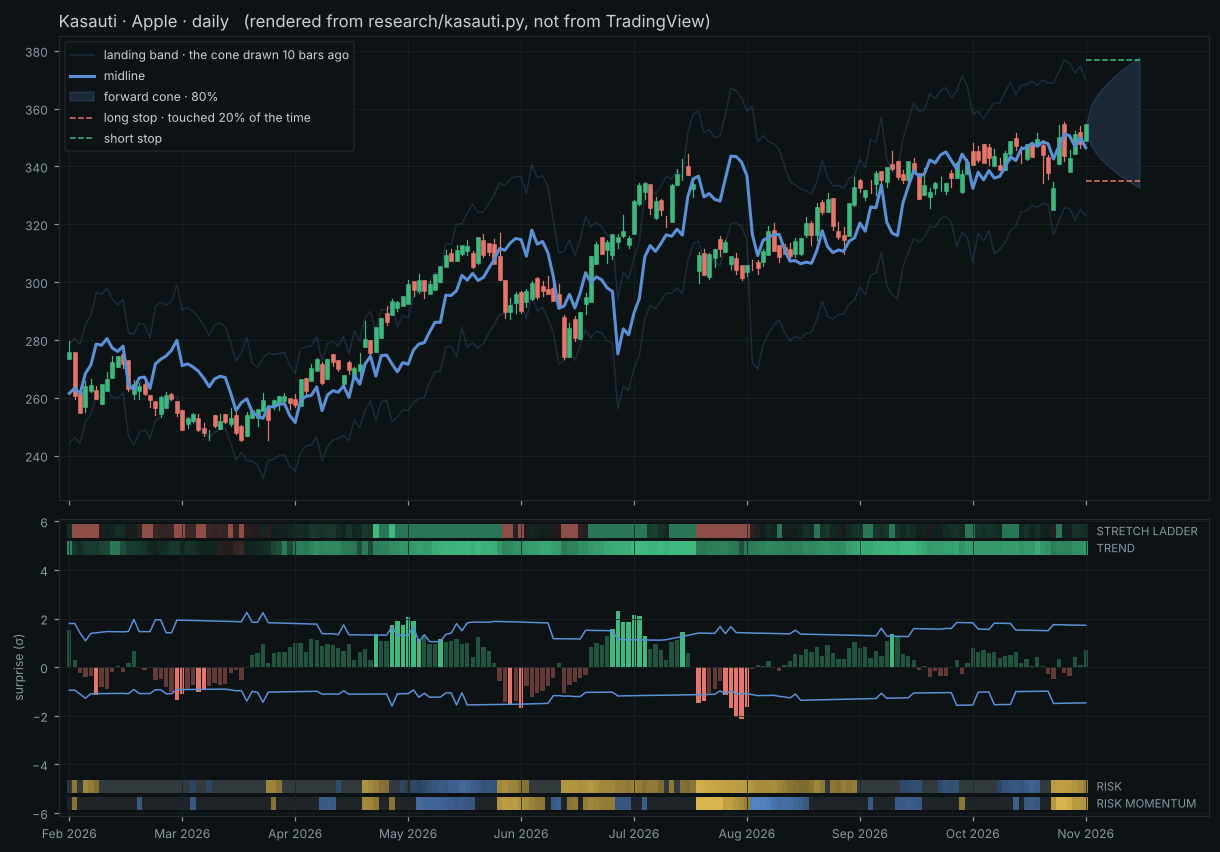
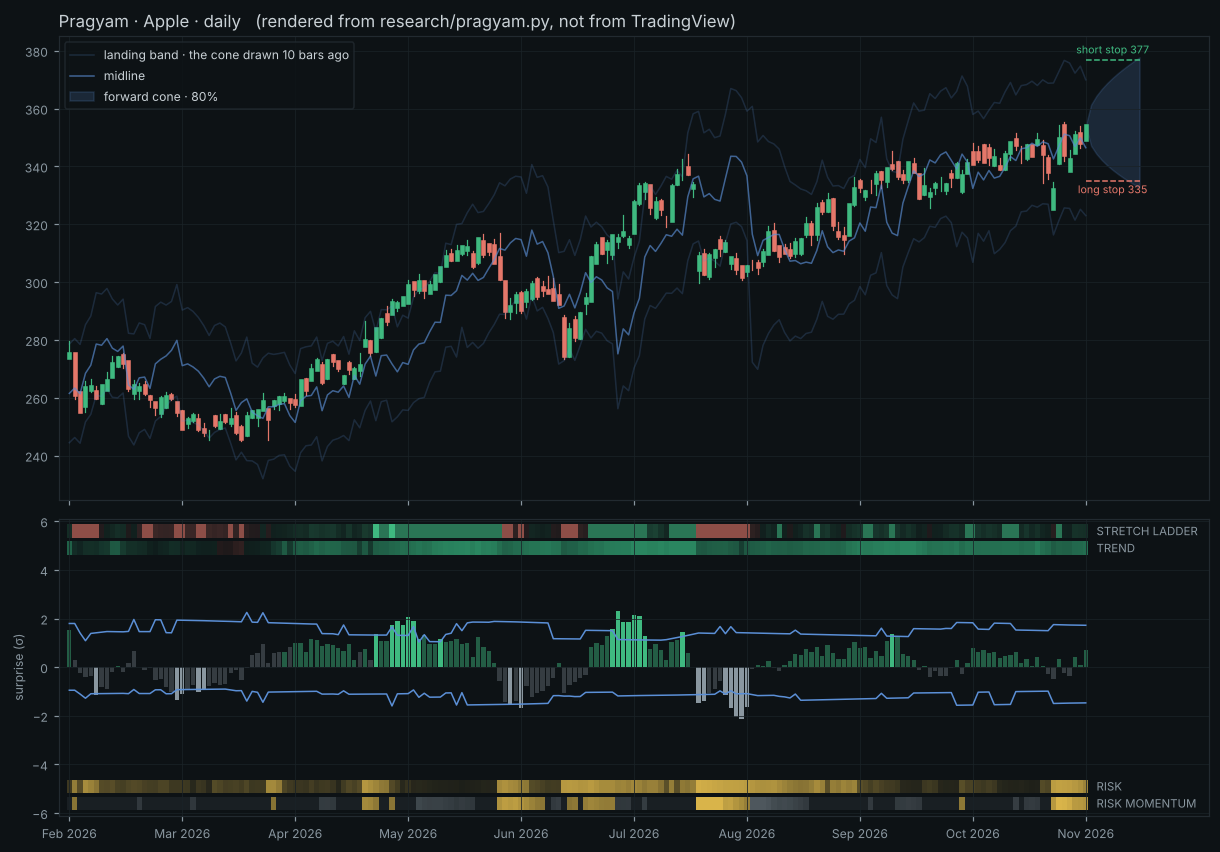
Rename to Pragyam (v2.4) and set the palette by meaning
- Renamed Kasauti to Pragyam: script, title, alerts, reference module.
- Columns are coloured only when the surprise and the trend agree (green
  up in an uptrend, red down in a downtrend); a move against the trend or
  with no trend is grey. Solid when the close left the cone.
- Trend tape uses a deep tone of green/red (long horizon); the stretch
  ladder and columns use the bright tone (short horizon).
- Risk tapes are gold only, faint to solid; falling risk is grey. Blue is
  reserved for the cone: bands, forward cone, landing band, midline.
- Midline is one pixel in the cone's blue, quieter than the profile VWAP.
- Stop labels sit on the stops (short stop above its line, long stop
  below) instead of in the profile's tag column; the cone-edge tags are
  dropped. The tag column is the profile's alone again.

No engine number changed. Not compiled in TradingView.

Claude-Session: https://claude.ai/code/session_016ViFoTstK1H2EPMC9V8JSo

diff --git a/research/preview.py b/research/preview.py
@@ -1,12 +1,12 @@
-"""Draws what kasauti.pine draws, from the reference implementation.  python3 preview.py"""
+"""Draws what pragyam.pine draws, from the reference implementation.  python3 preview.py"""
 from lib import *
-from kasauti import run
+from pragyam import run
 import warnings; warnings.filterwarnings("ignore")
 import matplotlib; matplotlib.use("Agg")
 import matplotlib.pyplot as plt
 from matplotlib.colors import to_rgba
 D = load(); H = 10
-BG, FG, CONE, UP, DN, NE, GOLD = "#0D1215", "#C9D1D6", "#5B8FD6", "#3FB980", "#E4776A", "#8A97A0", "#D9B44A"
+BG, FG, CONE, UP, DN, NE, GOLD, UPD, DND = "#0D1215", "#C9D1D6", "#5B8FD6", "#3FB980", "#E4776A", "#8A97A0", "#D9B44A", "#2A8660", "#B4554B"
 def grad(x, a, b, c, ta, tb):                                              # colour c, transparency ta -> tb as x runs a -> b (Pine's from_gradient)
     f = min(max((x - a) / (b - a), 0), 1); return to_rgba(c, 1 - (ta + (tb - ta) * f) / 100)
 for sym, title in (("_NSEI", "Nifty 50 · daily"), ("AAPL", "Apple · daily")):
@@ -19,23 +19,24 @@ for sym, title in (("_NSEI", "Nifty 50 · daily"), ("AAPL", "Apple · daily")):
         o, h, l, c = d2.open.iloc[i], d2.high.iloc[i], d2.low.iloc[i], d2.close.iloc[i]; col = UP if c >= o else DN
         a.plot([i, i], [l, h], color=col, lw=0.8); a.plot([i, i], [min(o, c), max(o, c)], color=col, lw=3)
     a.plot(x, R.upper.shift(H).iloc[-n:], color=CONE, lw=1, alpha=.2, label="landing band · the cone drawn 10 bars ago"); a.plot(x, R.lower.shift(H).iloc[-n:], color=CONE, lw=1, alpha=.2)
-    a.plot(x, ((R.upper.shift(H) + R.lower.shift(H)) / 2).iloc[-n:], color=CONE, lw=2, label="midline")
+    a.plot(x, ((R.upper.shift(H) + R.lower.shift(H)) / 2).iloc[-n:], color=CONE, lw=1, alpha=.65, label="midline")
     c, sg, qu, qd = d2.close.iloc[-1], R2.sig.iloc[-1], R2.qU.iloc[-1], R2.qD.iloc[-1]; j = np.arange(H + 1)
     a.fill_between(n - 1 + j, c * np.exp(-qd * sg * np.sqrt(j)), c * np.exp(qu * sg * np.sqrt(j)), color=CONE, alpha=.18, label="forward cone · 80%")
-    a.plot([n - 1, n - 1 + H], [R2.stopL.iloc[-1]] * 2, color=DN, ls="--", lw=1, label="long stop · touched 20% of the time"); a.plot([n - 1, n - 1 + H], [R2.stopS.iloc[-1]] * 2, color=UP, ls="--", lw=1, label="short stop")
-    a.legend(loc="upper left", fontsize=8, facecolor=BG, edgecolor="#222a30", labelcolor=FG); a.set_title(f"Kasauti · {title}   (rendered from research/kasauti.py, not from TradingView)", color=FG, fontsize=11, loc="left")
-    a = ax[1]; tr = np.where(R2.u >= 0, UP, DN); out = ((R2.mU == 1) | (R2.mD == 1)).values; uu = R2.u.clip(-4, 4)
-    a.bar(x[~out], uu[~out], color=tr[~out], alpha=.4); a.bar(x[out], uu[out], color=tr[out])
+    a.plot([n - 1, n - 1 + H], [R2.stopL.iloc[-1]] * 2, color=DN, ls="--", lw=1); a.plot([n - 1, n - 1 + H], [R2.stopS.iloc[-1]] * 2, color=UP, ls="--", lw=1)
+    a.text(n - 1 + H / 2, R2.stopS.iloc[-1], f"short stop {R2.stopS.iloc[-1]:,.0f}\n", color=UP, fontsize=7, ha="center", va="bottom", linespacing=.5); a.text(n - 1 + H / 2, R2.stopL.iloc[-1], f"\nlong stop {R2.stopL.iloc[-1]:,.0f}", color=DN, fontsize=7, ha="center", va="top", linespacing=.5)
+    a.legend(loc="upper left", fontsize=8, facecolor=BG, edgecolor="#222a30", labelcolor=FG); a.set_title(f"Pragyam · {title}   (rendered from research/pragyam.py, not from TradingView)", color=FG, fontsize=11, loc="left")
+    a = ax[1]; ts = np.where(R2["T"] > .5, 2, np.where(R2["T"] < -.5, 0, 1)); wth = ((R2.u >= 0) & (ts == 2)) | ((R2.u < 0) & (ts == 0)); tr = np.where(wth, np.where(R2.u >= 0, UP, DN), NE); out = ((R2.mU == 1) | (R2.mD == 1)).values; uu = R2.u.clip(-4, 4)
+    a.bar(x[~out & wth.values], uu[~out & wth.values], color=tr[~out & wth.values], alpha=.45); a.bar(x[~out & ~wth.values], uu[~out & ~wth.values], color=NE, alpha=.32); a.bar(x[out], uu[out], color=tr[out])
     a.plot(x, R.qU.shift(H).iloc[-n:], color=CONE, lw=1); a.plot(x, -R.qD.shift(H).iloc[-n:], color=CONE, lw=1)
     TY, MY, TH = 4.9, 5.6, 0.28
     for i in range(n):
         T, lx, up, dn, pr, rm = R2["T"].iloc[i], R2.ladX.iloc[i], R2.ladUp.iloc[i], R2.ladDn.iloc[i], R2.prk.iloc[i], np.log(R2.sig.iloc[i] / R.sig.shift(H).iloc[-n:].iloc[i])
-        hue = UP if T >= 0 else DN; ct = grad(abs(T), 0, .5, hue, 90, 62) if abs(T) < .5 else grad(abs(T), .5, 1.5, hue, 40, 0)
+        hue = UPD if T >= 0 else DND; ct = grad(abs(T), 0, .5, hue, 90, 62) if abs(T) < .5 else grad(abs(T), .5, 1.5, hue, 40, 0)
         if np.isnan(lx): cl = to_rgba(NE, .18)
         else:
             hue = UP if lx >= 0 else DN; k = up if lx >= 0 else dn; cl = to_rgba(hue, 1) if k >= 3 else to_rgba(hue, .6) if k >= 1 else grad(abs(lx), 0, 1, hue, 92, 66)
-        cr = to_rgba(NE, .18) if np.isnan(pr) else grad(pr, 0, 100 / 3, CONE, 15, 60) if pr < 100 / 3 else grad(pr, 200 / 3, 100, GOLD, 45, 0) if pr >= 200 / 3 else to_rgba(NE, .3)
-        cm = grad(abs(rm), .1, .4, GOLD, 40, 0) if rm > .1 else grad(abs(rm), .1, .4, CONE, 45, 10) if rm < -.1 else to_rgba(NE, .14)
+        cr = to_rgba(NE, .18) if np.isnan(pr) else grad(pr, 0, 100 / 3, GOLD, 95, 86) if pr < 100 / 3 else grad(pr, 200 / 3, 100, GOLD, 40, 0) if pr >= 200 / 3 else grad(pr, 100 / 3, 200 / 3, GOLD, 80, 62)
+        cm = grad(abs(rm), .1, .4, GOLD, 40, 0) if rm > .1 else grad(abs(rm), .1, .4, NE, 72, 48) if rm < -.1 else to_rgba(NE, .10)
         for yy, cc in ((TY, ct), (MY, cl), (-TY, cr), (-MY, cm)): a.bar(i, 2 * TH, bottom=yy - TH, color=cc, width=1.0)
     for yy, t in ((MY, "STRETCH LADDER"), (TY, "TREND"), (-TY, "RISK"), (-MY, "RISK MOMENTUM")): a.text(n + 1, yy, t, color=NE, fontsize=7.5, va="center")
     a.set_ylim(-6.1, 6.1); a.set_ylabel("surprise (σ)", color=NE, fontsize=8); a.set_xlim(-2, n + 22); ax[0].set_xlim(-2, n + 22)

diff --git a/research/study.py b/research/study.py
@@ -1,6 +1,6 @@
-"""Every number quoted in the README and in kasauti.pine's header.  Run:  python3 fetch.py && python3 study.py > results.txt"""
+"""Every number quoted in the README and in pragyam.pine's header.  Run:  python3 fetch.py && python3 study.py > results.txt"""
 from lib import *
-from kasauti import run
+from pragyam import run
 import warnings; warnings.filterwarnings("ignore")
 pd.set_option("display.width", 250)
 D = load()
@@ -49,7 +49,7 @@ print("\nQLIKE by class (OOS)"); print(pd.DataFrame({k: te.groupby("cls").apply(
 # ---------- 1. calibration: conformal vs fixed Gaussian --------------------------------------------------------------
 rows = []
 for s, (cls, d) in D.items():
-    for nm, kw in (("kasauti (regime + trend)", {}), ("regime only", dict(trendf=False)), ("one width", dict(regimes=False, trendf=False)), ("fixed normal", dict(conformal=False))):
+    for nm, kw in (("pragyam (regime + trend)", {}), ("regime only", dict(trendf=False)), ("one width", dict(regimes=False, trendf=False)), ("fixed normal", dict(conformal=False))):
         R = run(d, **kw); R = R[R.nF == 1]; R["era"] = era_of(R.index)
         for e, Q in R.groupby("era", observed=True):
             if len(Q) > 300: rows.append(dict(sym=s, cls=cls, kind=nm, era=e, cover=1 - Q.mU.mean() - Q.mD.mean(), up=Q.mU.mean(), dn=Q.mD.mean(), stopL=Q.mS.mean(), stopS=Q.mR.mean()))
@@ -65,7 +65,7 @@ print("\nspread across instruments (std of realised coverage):"); print(C.groupb
 rows = []; rows2 = []
 for s, (cls, d) in D.items():
     REG = run(d, trendf=False).reg                                                                   # the regime at forecast time, the same for every variant
-    for nm, kw in (("fixed normal", dict(conformal=False)), ("one width", dict(regimes=False, trendf=False)), ("regime only", dict(trendf=False)), ("kasauti (regime + trend)", {}), ("kasauti, eta .01", dict(eta=.01)), ("kasauti, eta .05", dict(eta=.05))):
+    for nm, kw in (("fixed normal", dict(conformal=False)), ("one width", dict(regimes=False, trendf=False)), ("regime only", dict(trendf=False)), ("pragyam (regime + trend)", {}), ("pragyam, eta .01", dict(eta=.01)), ("pragyam, eta .05", dict(eta=.05))):
         R = run(d, **kw); Q = R[R.nF == 1].copy(); Q["rg"] = REG.shift(10).reindex(Q.index); Q["era"] = pd.cut(Q.index.year, [1999, 2012, 2019, 2030], labels=["03-12", "13-19", "20-26"])
         for rg, q in Q.groupby("rg"): rows.append(dict(sym=s, kind=nm, reg=["calm", "normal", "stressed"][int(rg)], cover=1 - q.mU.mean() - q.mD.mean(), stopL=q.mS.mean(), stopS=q.mR.mean()))
         for e, q in Q.groupby("era", observed=True):

diff --git a/research/study_obs.py b/research/study_obs.py
@@ -2,7 +2,7 @@
   1. When the long stop is further from the close than the short stop, the trend is bearish - and the reverse.
   2. Does the session VWAP, mixed with that and with the midline, change anything?"""
 from lib import *
-from kasauti import run
+from pragyam import run
 import warnings; warnings.filterwarnings("ignore")
 pd.set_option("display.width", 250)
 H = 10

diff --git a/research/pragyam.py b/research/pragyam.py
@@ -1,4 +1,4 @@
-"""Reference implementation of kasauti.pine, bar for bar. Every number in the README is produced from this file."""
+"""Reference implementation of pragyam.pine, bar for bar. Every number in the README is produced from this file."""
 import numpy as np, pandas as pd
 from statistics import NormalDist
 WARM, RN = 252, 500

diff --git a/research/study_mid.py b/research/study_mid.py
@@ -1,6 +1,6 @@
 """The midline of the landing band as a trend divider - and whether calm risk and flips sharpen it.  python3 study_mid.py > midline.txt"""
 from lib import *
-from kasauti import run
+from pragyam import run
 import warnings, sys; warnings.filterwarnings("ignore")
 pd.set_option("display.width", 250)
 H = 10

diff --git a/README.md b/README.md
@@ -2,13 +2,13 @@
 
 | File | What it is |
 |---|---|
-| `kasauti.pine` | **Kasauti** — one self-contained TradingView indicator (Pine v6): calibrated risk, exposure, tapes, self-audit and volume profile. |
+| `pragyam.pine` | **Pragyam** — one self-contained TradingView indicator (Pine v6): calibrated risk, exposure, tapes, self-audit and volume profile. |
 | `pragati.pine` | **Pragati** — the original multi-timeframe conviction oscillator. Unchanged; it was the direction of thought and the benchmark. |
-| `research/` | The data fetch, the Python reference for Kasauti, and the study behind every number below. |
+| `research/` | The data fetch, the Python reference for Pragyam, and the study behind every number below. |
 
-## Kasauti · कसौटी
+## Pragyam
 
-*Kasauti* is the touchstone: the stone a goldsmith rubs metal on to see what it is.
+*Pragyam*, from *prajñā*, discernment: telling what can be known from what cannot. (Developed as Kasauti through v2.3.)
 It is **one script**. The pane, the tapes, the cone and stops, the volume profile and the table are all the same indicator.
 The only data it requests is the chart symbol's own lower timeframe, for the profile.
 
@@ -18,9 +18,9 @@ It answers three questions for the chart it is on, and then tests its own answer
 2. **Where am I wrong?** A stop level that is touched within 10 bars 20% of the time, and the position size that goes with it.
 3. **How much should I hold?** An exposure dial between 0 and 1.
 
-![Kasauti on Nifty 50](docs/preview_nsei.png)
+![Pragyam on Nifty 50](docs/preview_nsei.png)
 
-*Rendered from the reference implementation (`research/kasauti.py`), not from TradingView.*
+*Rendered from the reference implementation (`research/pragyam.py`), not from TradingView.*
 
 ### Why it does not call direction
 
@@ -32,7 +32,7 @@ On 151 instruments (US and NSE stocks, indices, commodities, FX, bonds, crypto),
 - No simple long/flat rule beat a risk-scaled buy and hold on Sharpe.
 
 Risk is different. The next 10 bars' variance is forecast out of sample with a log R² of 0.71.
-So Kasauti forecasts risk, states it as probabilities, and turns it into size, stop and exposure.
+So Pragyam forecasts risk, states it as probabilities, and turns it into size, stop and exposure.
 
 ### The tapes
 
@@ -52,7 +52,7 @@ The ladder uses horizons on the chart's own bars instead of other timeframes. A 
 
 All figures are from `research/results.txt`, net of 5 bp costs (10 bp crypto), acting one bar late.
 
-| Claim | Kasauti | Comparison |
+| Claim | Pragyam | Comparison |
 |---|---|---|
 | Cone holds 80% of the time | 79.9% realised; within 3 points in 99% of instrument-eras | fixed normal band: 61% of instrument-eras |
 | Cone holds in calm / normal / stressed markets | 79% / 80% / 81% | fixed normal band: 80% / 83% / 85% |
@@ -124,16 +124,26 @@ VWAP is the one place something showed up, and it points the other way from a tr
 - **Calibration is a long-run frequency.** Inside one shock the cone can miss several bars running.
 - **The stocks are today's large caps.** That flatters buy and hold and the dial alike. Indices, commodities, FX and bonds carry no such bias.
 
+### The palette, by meaning (v2.4)
+
+| Colour | Means | Where |
+|---|---|---|
+| Green / red, bright | direction on the short horizon | surprise columns (only when the trend agrees), stretch ladder |
+| Green / red, deep | direction on the long horizon | trend tape |
+| Grey | no direction: flat trend, a move the trend does not back, falling risk, warming | columns, tapes |
+| Gold | risk, and only risk | both risk tapes, faint to solid |
+| Blue | the cone | learned bands in the pane; forward cone, landing band and midline on the chart |
+
 ### How to read it
 
 | Where | What | Read it as |
 |---|---|---|
 | Price chart | Forward cone | where the close should be H bars from now |
 | Price chart | Dashed lines across the cone | long and short stops at the stated touch probability |
-| Price chart | Midline (the prominent line) | the average of the landing band; where price stands against H bars ago. A description, not a signal |
+| Price chart | Midline (one pixel, cone blue) | the average of the landing band; where price stands against H bars ago. A description, not a signal |
 | Price chart | Landing band (faint) | the cone drawn H bars ago; a close outside it is a surprise |
 | Price chart | Volume profile | Pragati's, carried in whole: session histogram, POC, value area, VWAP, Initial Balance, prior-session levels, naked POCs. Display only; it sits to the right of the cone |
-| Pane | Columns against two lines | the realised move ÷ the forecast made H bars ago; green up, red down, solid when the close left the cone |
+| Pane | Columns against two lines | the realised move ÷ the forecast made H bars ago. Coloured when the trend backs the move (green up in an uptrend, red down in a downtrend), grey otherwise; solid when the close left the cone |
 | Pane | Four tapes | trend and stretch ladder above; risk and risk momentum below |
 | Pane · Proof view | Two lines | following the dial against buy and hold on this chart |
 | Table (off by default) | Eight short rows | cone, stops and size, the position to hold, risk, trend, this chart's record, Sharpe against buy and hold. Detail is in each row's tooltip |
@@ -143,7 +153,7 @@ Gold always means risk, never up or down.
 
 ### Status
 
-- **v2.3** closes the presentation (status line, line weights, column colours, compact table) and tests two more observations; **v2.2** added the midline and its record; **v2.1** added the volume profile. No engine number changed from v2.0. The preview image does not show the profile.
+- **v2.4** renames the script to Pragyam and sets the palette by meaning; **v2.3** closed the presentation (status line, line weights, column colours, compact table) and tests two more observations; **v2.2** added the midline and its record; **v2.1** added the volume profile. No engine number changed from v2.0. The preview image does not show the profile.
 - A later experiment ("Maryada": touch probabilities on profile levels, unified tapes, Pragati's palette) was set aside; it remains in the git history at commit `7c5340a`.
 - The Pine script has **not been compiled in TradingView**. No Pine compiler is available here; it was checked by hand against the reference implementation. Expect to fix a syntax detail or two on first load.
 - The Python reference and the Pine script were written to the same arithmetic but have not been compared bar for bar.
